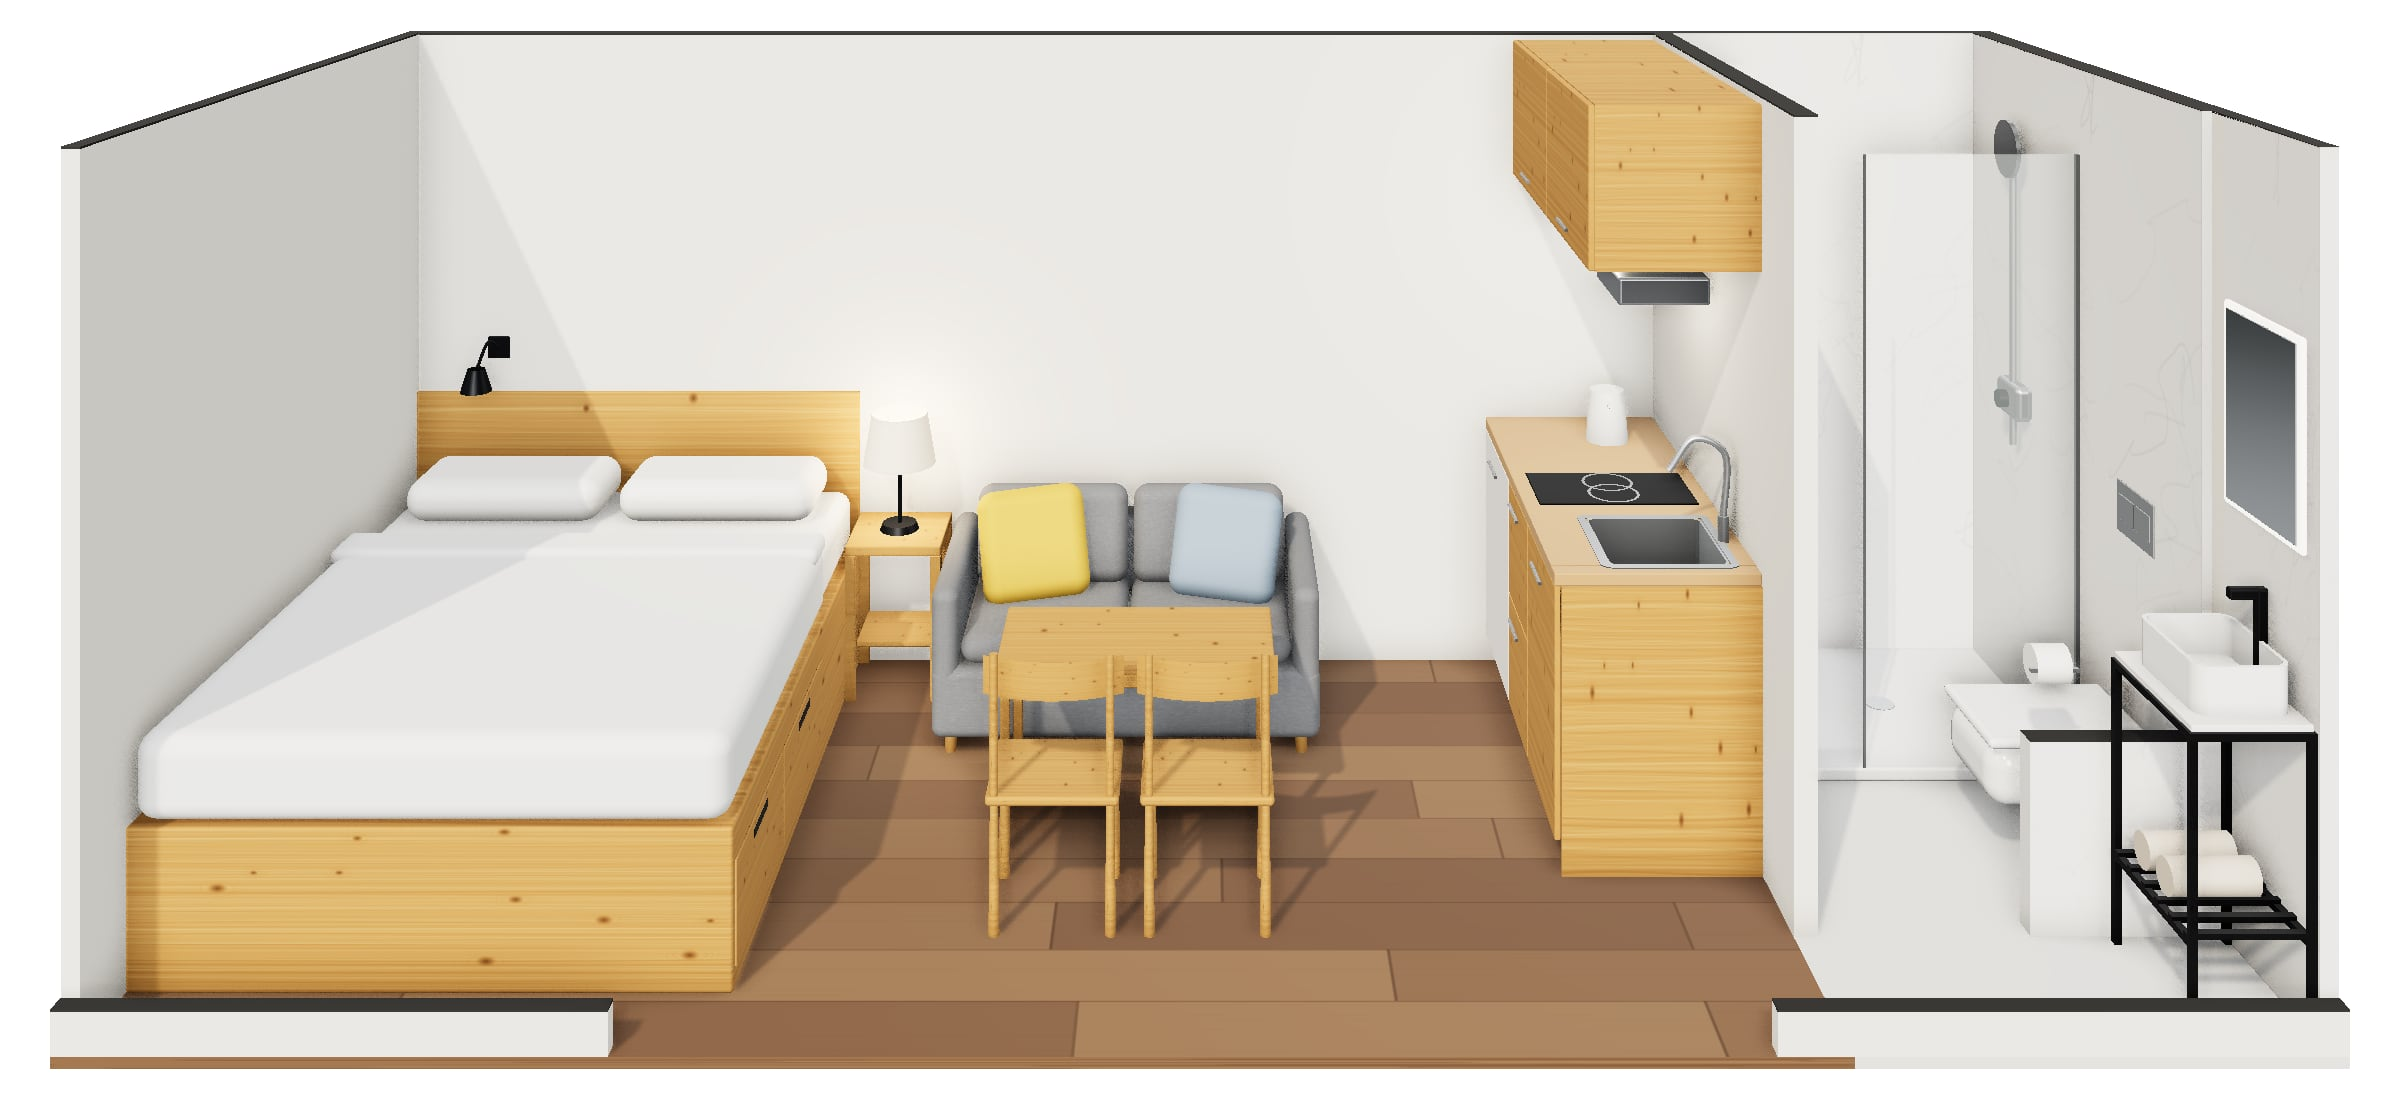
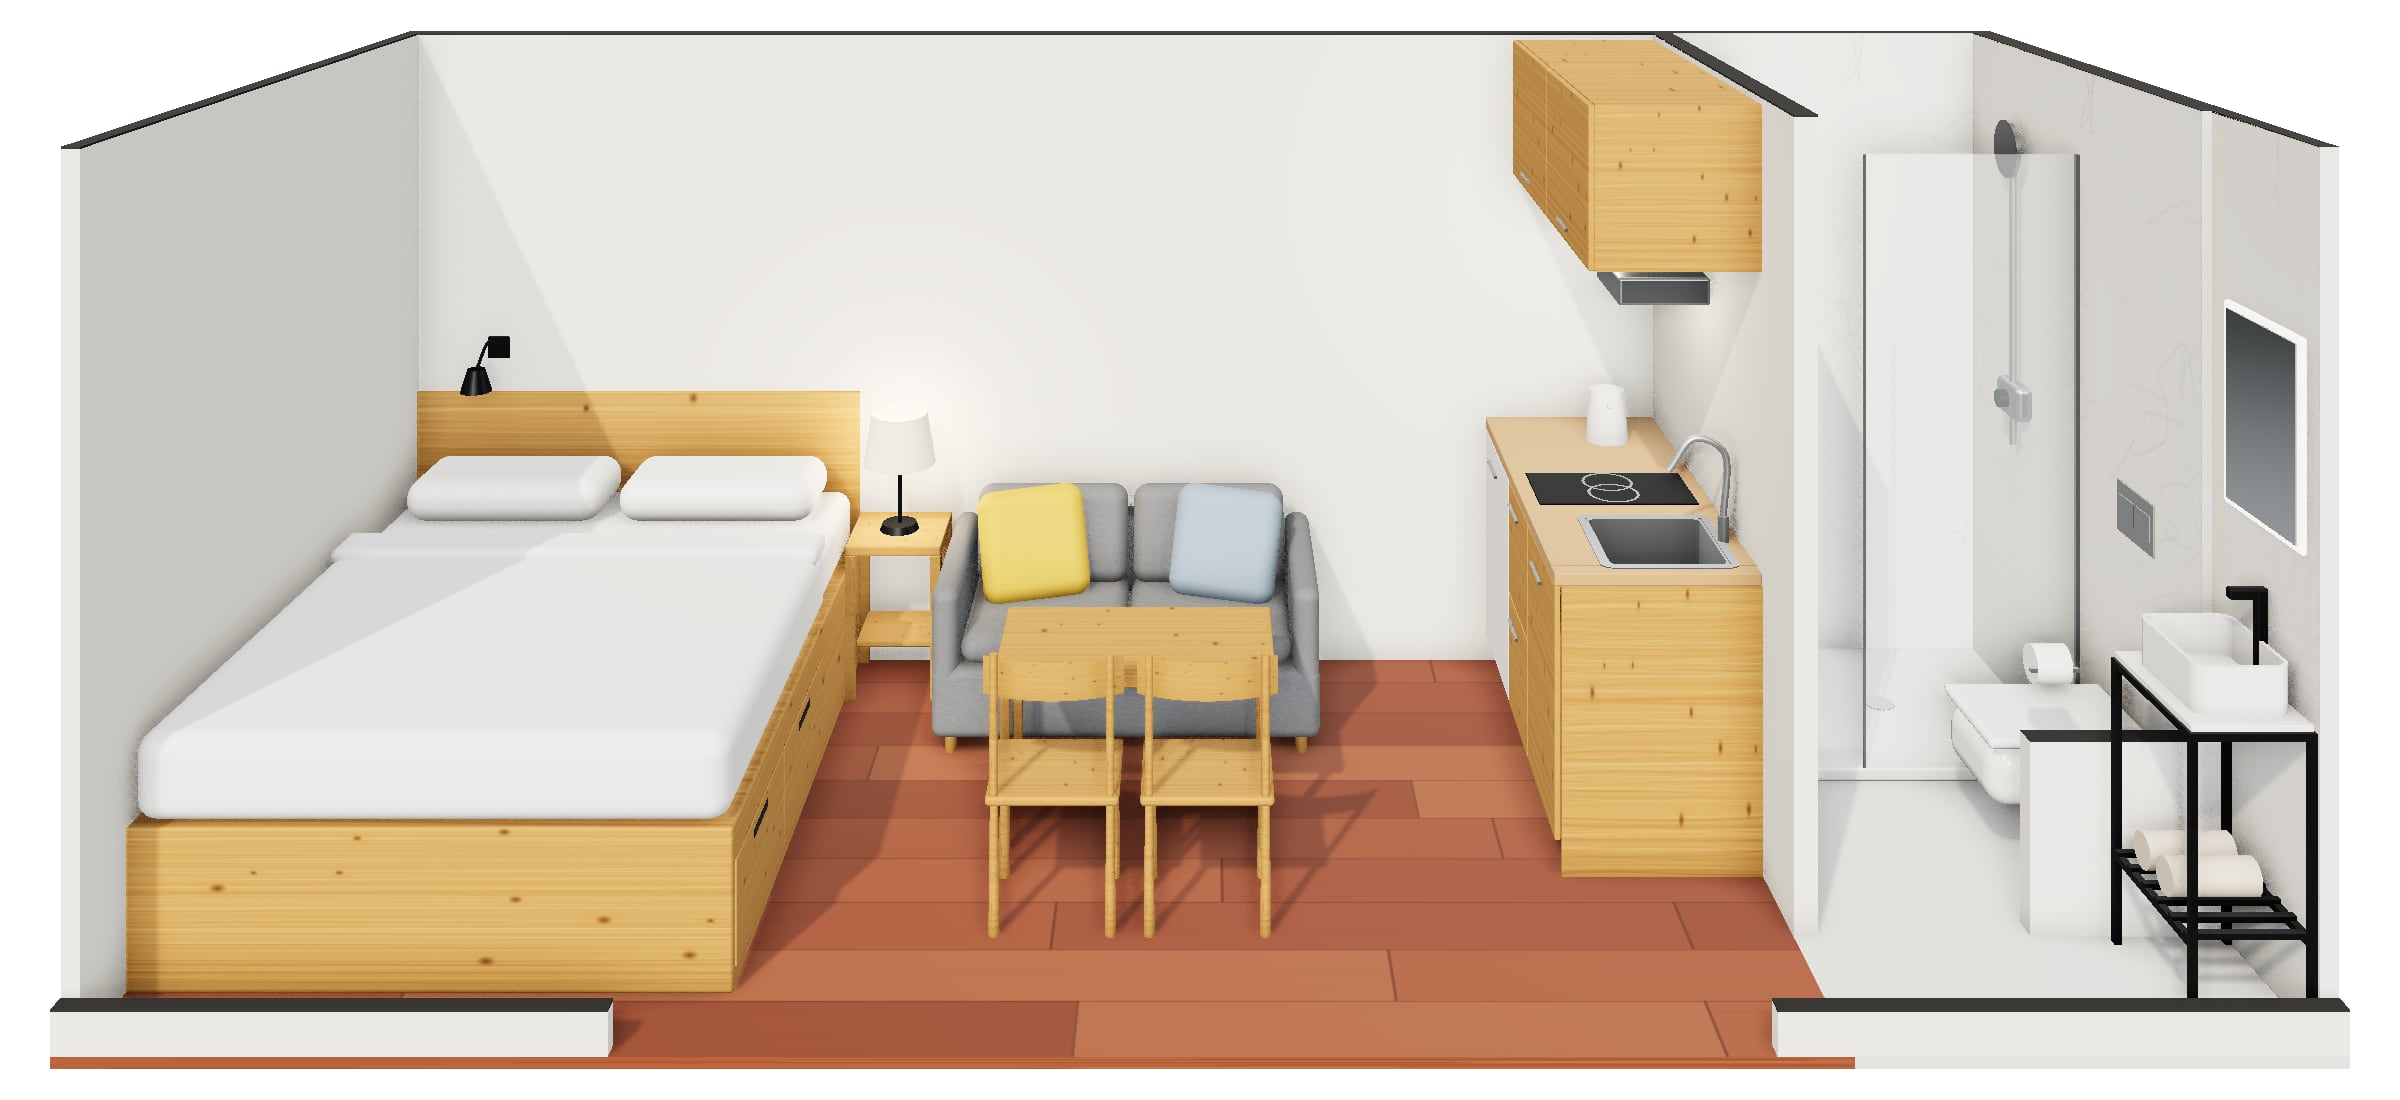
feat(studio): natural red-wood floor
The living floor's SPC takes a natural red-wood decor instead of the
smoked oak, under the golden pine furniture; the render, the finishes
table and the bill of materials follow.

Claude-Session: https://claude.ai/code/session_01KRyNxX68L5feJKbJnBKRyV

diff --git a/scripts/studio/render/room.html b/scripts/studio/render/room.html
@@ -134,7 +134,7 @@ const T = LINE ? {} : {
   }, 1024, 512),
   // SPC floor planks
   planks: tex((g, w, h) => {
-    const tones = ["#7a5b40", "#6f5139", "#836345", "#694c35", "#76573c"] // smoked oak
+    const tones = ["#8c4b30", "#7f4229", "#975739", "#86462d", "#914f33"] // natural red hardwood
     const rows = 10, rh = h / rows
     for (let r = 0; r < rows; r++) {
       let x = -((r * 173) % 400)

diff --git a/scripts/studio/kits.py b/scripts/studio/kits.py
@@ -145,7 +145,7 @@ def k1_lining(lo: Layout) -> Kit:
                  "pufoam"))
     k.buy(Bought("K1-EPOXY", "Primer + 100%-solids epoxy floor seal", "K1", "finishes", "painting", 14, "m2",
                  "epoxy"))
-    k.buy(Bought("K1-SPC", "SPC flooring 5 mm, smoked-oak decor, + underlay (living area)", "K1", "finishes", "carpentry",
+    k.buy(Bought("K1-SPC", "SPC flooring 5 mm, natural red-wood decor, + underlay (living area)", "K1", "finishes", "carpentry",
                  round(lo.part_x0 * lo.W / 1e6 * 1.08, 1), "m2", "spc", Box(0, 0, -5, lo.part_x0, lo.W, 0),
                  step="S05", layer="envelope", color="floor"))
     k.buy(Bought("K1-RUST", "Rust converter + zinc primer for steel", "K1", "finishes", "painting", 4, "L", "primer"))

diff --git a/study/studio/studio-design.md b/study/studio/studio-design.md
@@ -49,9 +49,9 @@ The 3D drawing and the realistic image on the studio page are rendered from the 
 | Surface | Finish | Why |
 |---|---|---|
 | Walls and ceiling (living) | 12 mm ply, vapour-retarding primer and off-white paint | Light and calm; the primer seals the insulation from room air; repaintable |
-| Floor (living) | Epoxy seal over the treated container floor, then 5 mm SPC in a dark smoked-oak decor | The original floor is insecticide-treated; never sand it [V STU-07] |
+| Floor (living) | Epoxy seal over the treated container floor, then 5 mm SPC in a natural red-wood decor | The original floor is insecticide-treated; never sand it [V STU-07] |
 | Bathroom walls | Cement board, liquid membrane, ceramic tiles | Fully waterproof; easy to clean between guests |
 | Bathroom floor | Safety vinyl coved 100 mm up the walls, low-profile tray | No joints at the floor; the tray keeps IP zone 1 small [V STU-38] |
-| Furniture | Golden knotty pine: 18 mm pine-faced ply or solid pine, clear matte PU varnish, knots kept, ABS edges; marine ply in the bathroom | The founder's reference finish; Kigali carpenters work pine every day; warm against off-white walls and a darker floor |
+| Furniture | Golden knotty pine: 18 mm pine-faced ply or solid pine, clear matte PU varnish, knots kept, ABS edges; marine ply in the bathroom | The founder's reference finish; Kigali carpenters work pine every day; warm against off-white walls and the natural red floor |
 | Worktop | 38 mm laminate or hardwood | Field check (AS-24) |
 | Outside | Existing paint kept; steelwork for the roof painted to match | Founder did not ask for a repaint |
